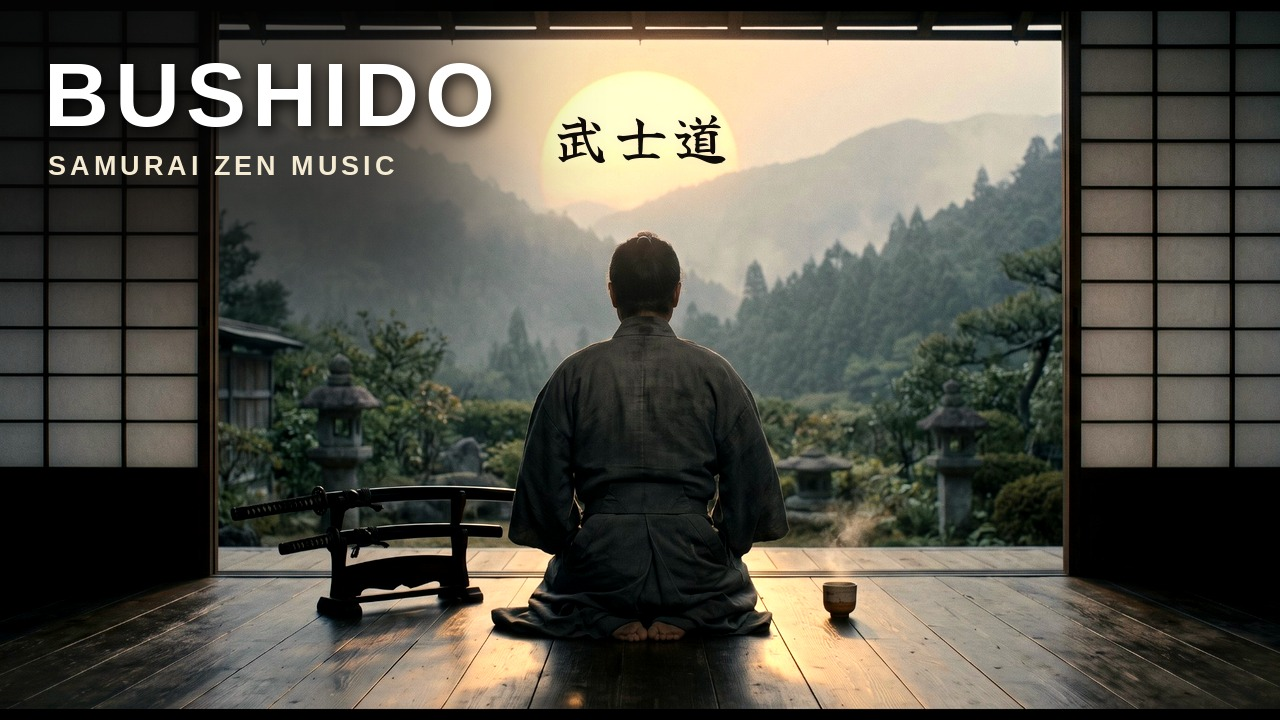
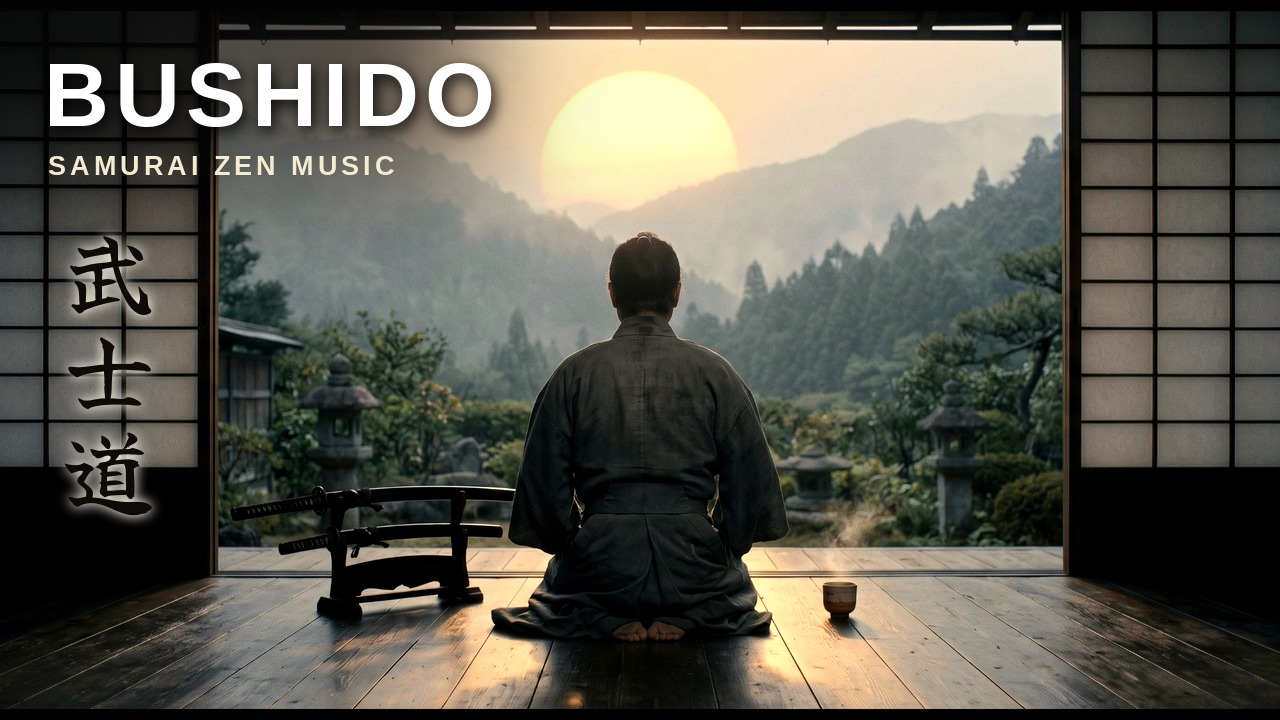
StillWave BUSHIDO: vertical kanji on the thumbnail, 5-track check cycle
Claude-Session: https://claude.ai/code/session_014rUxCAgr4C7iAmMHbP4fFt

Changed region(s): [[0.0, 0.1833, 0.4062, 0.7333], [0.4375, 0.1528, 0.5625, 0.2444], [0.1875, 0.4583, 0.2188, 0.4889]]

diff --git a/stillwave/assets/bushido-compose-thumb.py b/stillwave/assets/bushido-compose-thumb.py
@@ -2,8 +2,8 @@
 """BUSHIDO thumbnail — 1280x720.
 
 The source frame is soft and muted, so the thumbnail lifts contrast and warmth a
-little (only here, not in the video). 武士道 in black brush (YujiBoku) sits on the
-sun; BUSHIDO in bold white on a darkened left shoji panel. Source:
+little (only here, not in the video). 武士道 in black brush (YujiBoku) runs top to
+bottom on the left shoji panel; BUSHIDO in bold white on a darkened left shoji panel. Source:
 bushido-2h-source.jpg (clean frame, no text).
 """
 from pathlib import Path
@@ -24,25 +24,23 @@ bg = img.convert("RGBA")
 
 # darken the left panel behind the title
 sh = Image.new("RGBA", (W, H), (0, 0, 0, 0))
-ImageDraw.Draw(sh).rectangle((-80, -80, 470, 300), fill=(6, 5, 4, 175))
+ImageDraw.Draw(sh).rectangle((-80, -80, 470, 190), fill=(6, 5, 4, 175))
 bg.alpha_composite(sh.filter(ImageFilter.GaussianBlur(60)))
 
-# 武士道 across the sun
-f = ImageFont.truetype(KANJI, 54)
+# 武士道 top-to-bottom on the left shoji panel, black brush like ink on paper
+f = ImageFont.truetype(KANJI, 92)
 mask = Image.new("L", (W, H), 0)
 md = ImageDraw.Draw(mask)
-text, cx, cy = "武士道", 640, 140
-widths = [f.getbbox(c)[2] - f.getbbox(c)[0] for c in text]
-gap = 6
-x = cx - (sum(widths) + gap * (len(text) - 1)) / 2
-for ch, wdt in zip(text, widths):
+cx, y = 108, 236
+for ch in "武士道":
     l, t, rr, bb = f.getbbox(ch)
-    md.text((x - l, cy - (t + bb) / 2), ch, font=f, fill=255)
-    x += wdt + gap
+    md.text((cx - (l + rr) / 2, y - t), ch, font=f, fill=255)
+    y += (bb - t) + 22
 halo = Image.new("RGBA", (W, H), (0, 0, 0, 0))
-halo.paste((255, 236, 200, 255), (0, 0), mask.filter(ImageFilter.GaussianBlur(5)).point(lambda p: min(255, int(p * 1.4))))
+halo.paste((250, 244, 230, 255), (0, 0), mask.filter(ImageFilter.GaussianBlur(6)).point(lambda p: min(255, int(p * 1.3))))
 bg.alpha_composite(halo)
 bg.alpha_composite(Image.composite(Image.new("RGBA", (W, H), (14, 10, 8, 255)), Image.new("RGBA", (W, H), (0, 0, 0, 0)), mask))
+print("kanji column bottom", int(y))
 
 # BUSHIDO + subtitle, upper-left
 d = ImageDraw.Draw(bg)

diff --git a/stillwave/scripts/bushido-2h.md b/stillwave/scripts/bushido-2h.md
@@ -7,13 +7,31 @@
 - **Playlist (add to in Studio):** Japanese Zen Music
 - **Format:** 6 Musicful tracks (one prompt, 3 requests = 18 units) stitched into one cycle with `sevenlights/tools/make_long_track.py`, looped to 2:00:00. One-cycle copyright check on YouTube before the 2 hours (same routine as RONIN).
 - **Working folder on the PC:** `Desktop\StillWaveZen\BUSHIDO\`
-- **Status:** 📝 title/description (user), overlay, image, Flow, music prompt, tags and pinned ready. Frame, overlay and thumbnail done (§5). Waiting for: music check.
+- **Status:** 📝 title/description (user), overlay, image, Flow, music prompt, tags and pinned ready. Frame, overlay and thumbnail done (§5). One-cycle check video sent (§2). Waiting for: YouTube copyright check.
 
 **🇺🇦 RU:** Бусидо как повседневная дисциплина: искренность, сдержанность, простые дела, сделанные как следует, даже когда никто не видит. Формат как у RONIN: 6 треков Musicful, круг, проверка на YouTube, затем 2 часа.
 
 ## §1 — Music (Musicful)
 
 Prompt file: `stillwave/scripts/bushido-musicful-prompt.txt` (no percussion, same quiet brief as RONIN).
+
+## §2 — Album and one-cycle check (2026-11-13)
+
+6 Musicful tracks (branch `claude/bushido-musicful`), 18 units (262 → 244). Musicful has no length parameter (docs checked): MFV3.0 caps at 8 min but sets no target, so the prompt's length cue is the only lever; tracks came out 3:13–3:45.
+
+Track `1606611` is in **G major** while the other five sit in D minor / G minor (chroma similarity 0.50 vs 0.96–0.99), and it has the album's biggest jump (+19.5 dB at 0:18). It is **left out** of the cycle so the album stays in one key.
+
+| # | Track | Starts in the cycle |
+|---|---|---|
+| 1 | 1606610 | 0:00 |
+| 2 | 1606614 | 2:54 |
+| 3 | 1606612 | 5:16 |
+| 4 | 1606613 | 7:56 |
+| 5 | 1606615 | 10:43 |
+
+Cycle 13:42 (≈ 9 repeats in 2 hours), −15.5 LUFS, LRA 6.2. Peak reaches 0.0 dBFS, so the 2-hour build gets a −1 dB true-peak limit.
+
+**🇺🇦 RU:** Трек 1606611 в другой тональности (соль мажор) и с самым резким скачком, поэтому в круг не взят: 5 треков, круг 13:42. В документации Musicful параметра длины нет, только подсказка в промте.
 
 ## §3 — Hero image (NanoBanana 16:9)
 ```
@@ -28,10 +46,10 @@ Feed the clean hero (no text). Camera completely locked: no pan, no zoom, no dol
 ## §5 — Chosen frame, overlay, thumbnail (2026-11-13)
 
 - Frame saved as `assets/bushido-2h-source.jpg` (1984x1116, cropped to 16:9). The sword rack sits in the lower-left, so the overlay is **upper-left** over the left shoji, with a heavy scrim that stops short of the sun (`make_overlay.py --dy -600 --scrim 215 --scrim-right 640`).
-- Thumbnail `assets/bushido-2h-thumb.jpg` (`bushido-compose-thumb.py`): contrast and warmth lifted (thumbnail only), BUSHIDO bold white upper-left, 武士道 in black brush on the sun.
+- Thumbnail `assets/bushido-2h-thumb.jpg` (`bushido-compose-thumb.py`): contrast and warmth lifted (thumbnail only), BUSHIDO bold white upper-left, 武士道 in larger black brush running top to bottom on the left shoji (moved off the sun at the user's request).
 - For a stronger click, the frame itself could be regenerated warmer and with more contrast (see chat 2026-11-13).
 
-**🇺🇦 RU:** Подставка с мечами слева внизу, поэтому оверлей слева вверху на сёдзи, с плотной подложкой, которая не заходит на солнце. Превью: контраст и тепло подняты только на превью, BUSHIDO белым слева вверху, 武士道 кистью на солнце.
+**🇺🇦 RU:** Подставка с мечами слева внизу, поэтому оверлей слева вверху на сёдзи, с плотной подложкой, которая не заходит на солнце. Превью: контраст и тепло подняты только на превью, BUSHIDO белым слева вверху, 武士道 крупнее, сверху вниз на левой сёдзи (по просьбе пользователя).
 
 ## §6a — Wisdom Overlay
 
